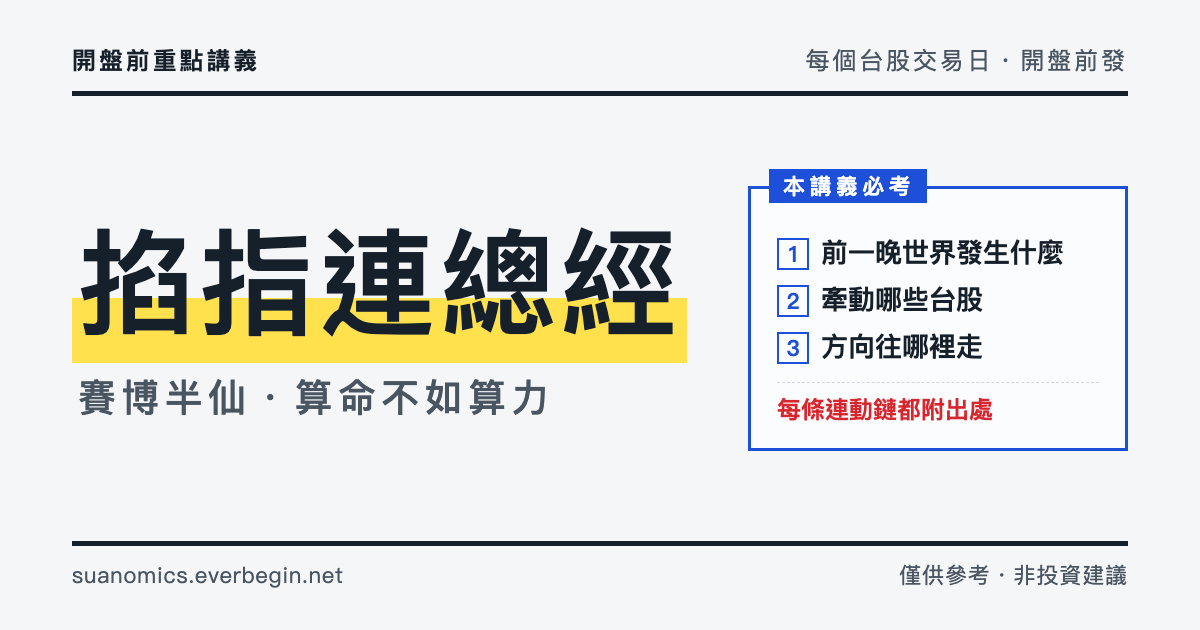
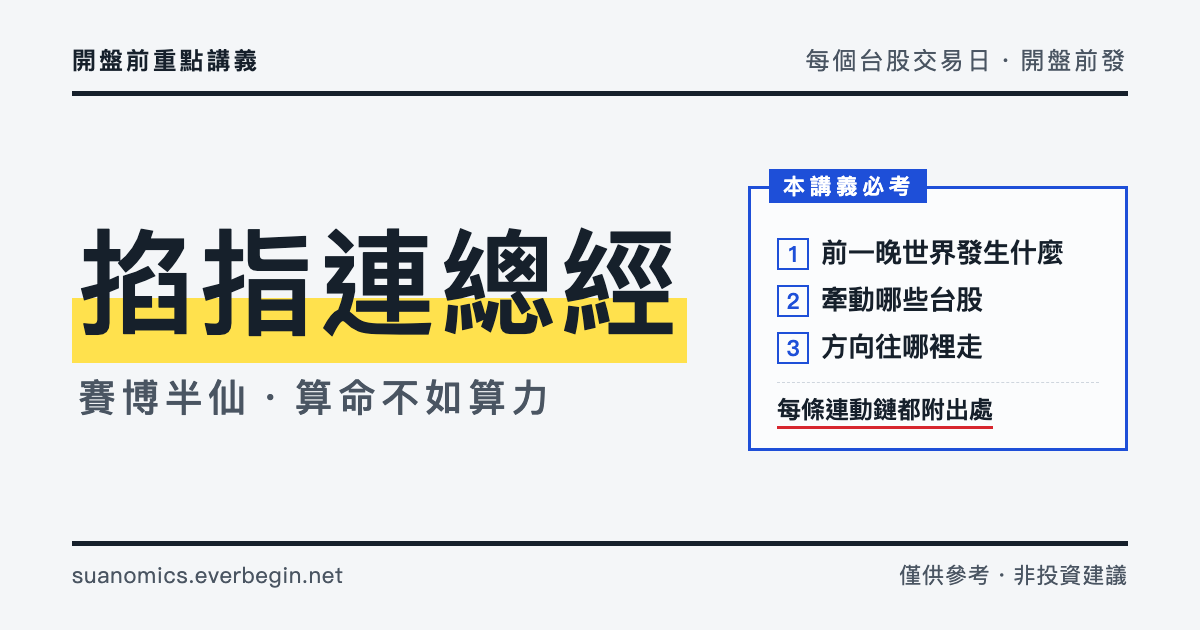
fix(web): follow red-pen and highlighter rules in OG image [BEHAVIORAL]
Ref #103

Claude-Session: https://claude.ai/code/session_01P9E9cP86fddUXhtuLNCm5J

Changed region(s): [[0.6475, 0.6333, 0.8325, 0.6937]]

diff --git a/apps/web/brand/og-image.html b/apps/web/brand/og-image.html
@@ -1,6 +1,6 @@
 <!doctype html>
 <!-- 社群分享縮圖（public/og-image.png）的原稿，1200x630。改這裡後跑 brand/render.sh 重產 PNG。
-     色票與字體照 DESIGN.md：冷白紙、墨黑字、藍筆框、紅筆結論、黃色螢光筆只劃一處。 -->
+     色票與字體照 DESIGN.md：冷白紙、墨黑字、藍筆框、紅筆劃線、黃色螢光筆只劃品牌名。 -->
 <html lang="zh-Hant-TW">
   <head>
     <meta charset="utf-8" />
@@ -126,9 +126,12 @@
         margin: 12px 0 0;
         padding-top: 10px;
         border-top: 1px dashed var(--rule);
-        color: var(--red);
         font-size: 24px;
         font-weight: 700;
+      }
+      .red span {
+        text-decoration: underline 3px var(--red);
+        text-underline-offset: 0.32em;
       }
     </style>
   </head>
@@ -146,7 +149,7 @@
           <li><i>2</i>牽動哪些台股</li>
           <li><i>3</i>方向往哪裡走</li>
         </ol>
-        <p class="red">每條連動鏈都附出處</p>
+        <p class="red"><span>每條連動鏈都附出處</span></p>
       </div>
     </div>
     <div class="bottom"><span>suanomics.everbegin.net</span><span>僅供參考・非投資建議</span></div>

diff --git a/DESIGN.md b/DESIGN.md
@@ -152,7 +152,7 @@ components:
 
 **The Red Is Up Rule.** 紅色在本站代表上漲，所以紅色不印在數字或內文上：紅筆以劃線或短標籤出現，方向一律紅漲綠跌，並配三角形記號與「正向／負向」文字，不靠顏色單獨表意。
 
-**The One Highlighter Rule.** 黃色螢光筆一頁只劃一處，就是本日主軸那一句；其他強調用粗體或紅筆劃線。
+**The One Highlighter Rule.** 網頁上的黃色螢光筆一頁只劃一處，就是本日主軸那一句；其他強調用粗體或紅筆劃線。站外品牌圖的例外見〈分享縮圖與網站圖示〉。
 
 **The Blue Pen Rule.** 藍色是老師的筆：框、連結、序號、focus。藍色實心底只用在三個地方：重點框的框上標籤、主要按鈕、跳到本文連結。
 
@@ -250,8 +250,9 @@ components:
 
 ### 分享縮圖與網站圖示
 
-- **分享縮圖（`apps/web/public/og-image.png`）：** 1200x630 的固定品牌圖，每頁共用。上下各一條墨線夾住版面：左邊 116px、900 的品牌名套螢光筆，底下是 `ink-2` 的 slogan；右邊是縮小版的「本日必考重點」藍框，列出講義回答的三件事，框底一句紅字「每條連動鏈都附出處」。
+- **分享縮圖（`apps/web/public/og-image.png`）：** 1200x630 的固定品牌圖，每頁共用。上下各一條墨線夾住版面：左邊 116px、900 的品牌名套螢光筆，底下是 `ink-2` 的 slogan；右邊是縮小版的「本日必考重點」藍框，列出講義回答的三件事，框底一句紅筆劃線的「每條連動鏈都附出處」。
 - **網站圖示（`favicon.ico`、`apple-touch-icon.png`）：** 藍框 `sheet` 底，中間一個墨黑「掐」字，字的下半段劃一道螢光筆。
+- **螢光筆的例外：** 品牌圖不是講義頁面，沒有本日主軸，螢光筆改劃品牌名（圖示劃「掐」字），每張圖仍只劃這一處。The One Highlighter Rule 只管網頁。
 - **原稿：** 兩者的原稿是 `apps/web/brand/` 裡的 HTML，改完跑 `apps/web/brand/render.sh`（本機 Chrome headless 截圖，macOS 限定）重產，產出的圖檔進版控，build 不重產。
 
 ### 動態
@@ -273,7 +274,7 @@ components:
 ### Don't:
 
 - **Don't** 把紅色印在數字或段落文字上；紅色在本站等於上漲。
-- **Don't** 在主軸以外的地方用螢光黃。
+- **Don't** 在網頁上主軸以外的地方用螢光黃。
 - **Don't** 加陰影、圓角或卡片式浮起；講義是一張平的紙。
 - **Don't** 用綠色表示上漲、成功或任何方向以外的意義。
 - **Don't** 只用顏色區分方向。
